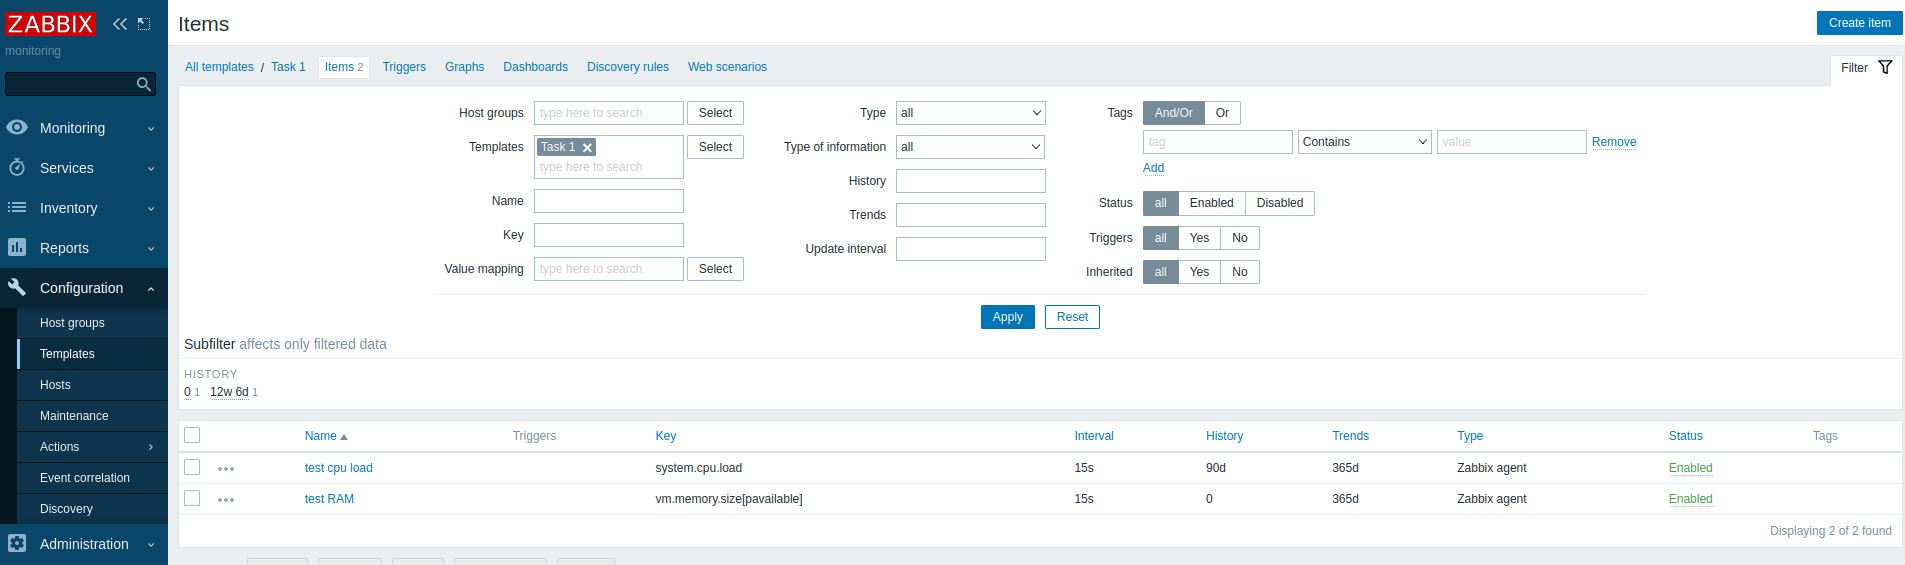
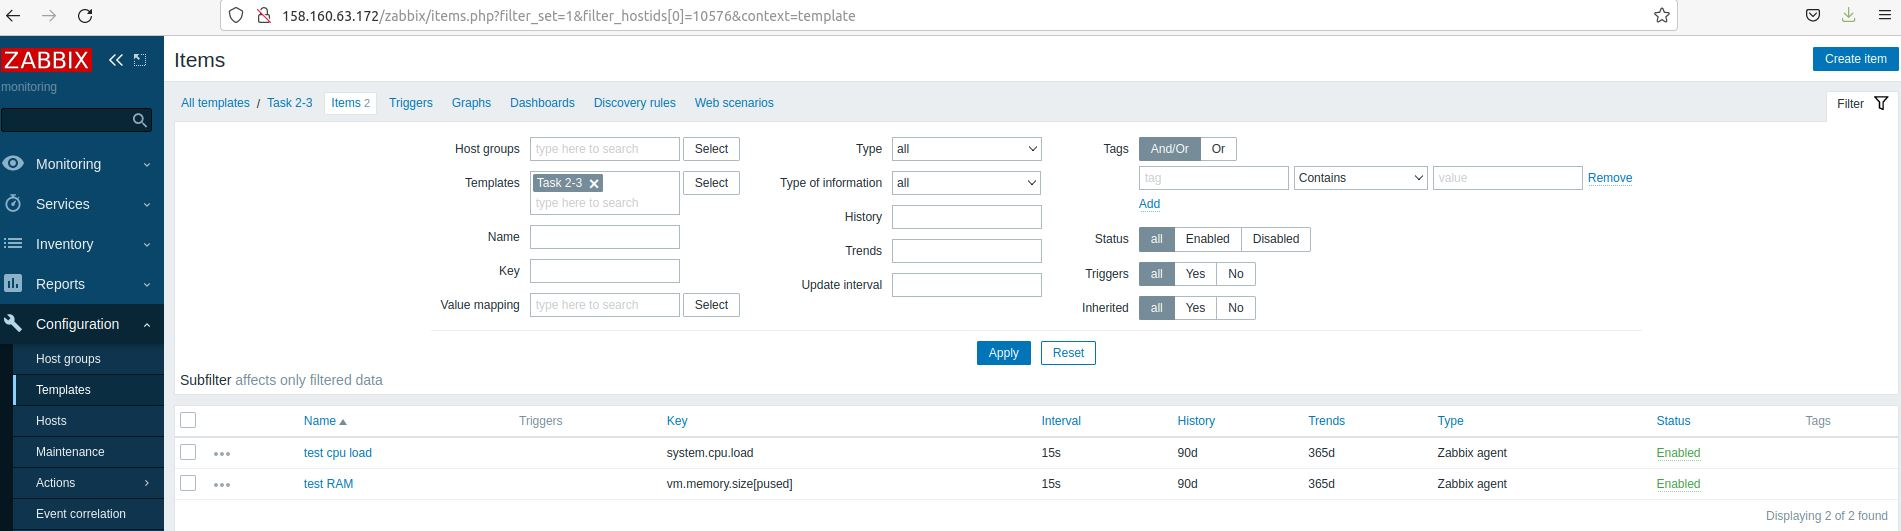
added screenshot of user dashboard

diff --git a/README.md b/README.md
@@ -63,3 +63,23 @@ https://github.com/megawebtech/zabbix2_26052023/blob/master/template_task1.JPG
 #### Требования к результату
 - [ ] Прикрепите в файл README.md скриншот страницы хостов, где будут видны привязки шаблонов с названиями «Задание 2-3». Хосты должны иметь зелёный статус подключения
 
+
+Привязаны шаблоны созданный и linux by zabbix agent (для машин yarchakaa-1 и yarchakaa-2)
+
+https://github.com/megawebtech/zabbix2_26052023/blob/master/task%202-3.JPG
+
+
+### Задание 4
+Создайте свой кастомный дашборд.
+
+#### Процесс выполнения
+1. Выполняя ДЗ сверяйтесь с процессом отражённым в записи лекции.
+2. В разделе Dashboards создайте новый дашборд
+3. Разместите на нём несколько графиков на ваше усмотрение.
+
+#### Требования к результату
+- [ ] Прикрепите в файл README.md скриншот дашборда с названием «Задание 4»
+
+ ---
+
+
